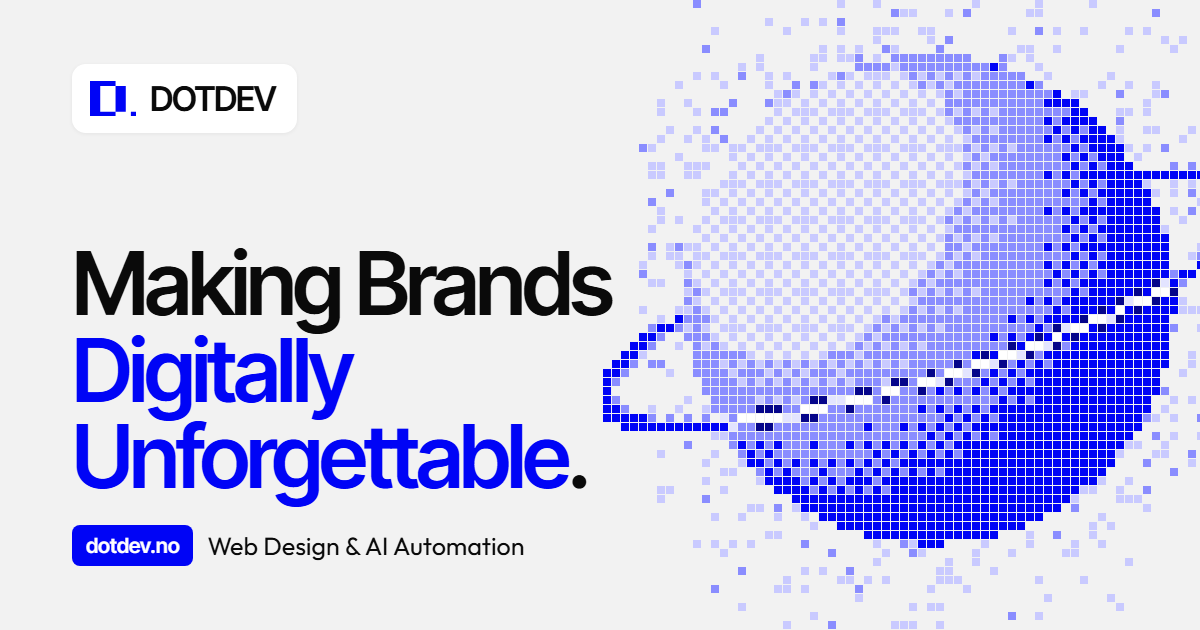
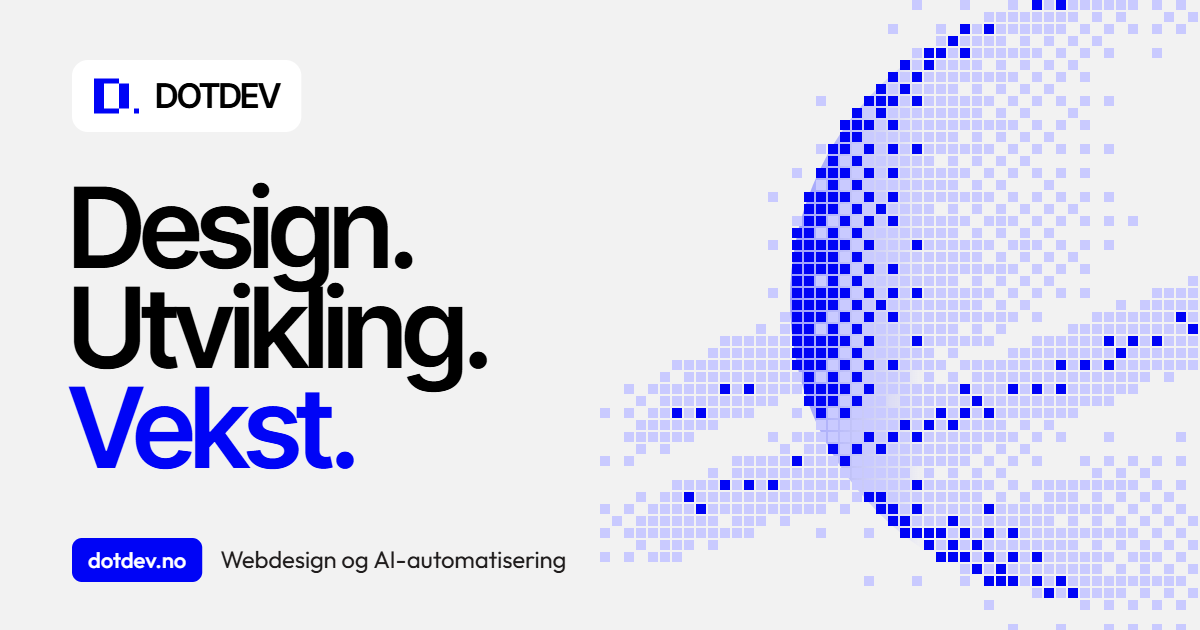
Nytt delingsbilde med «Design. Utvikling. Vekst.»
- delingsbilde.png: samme overskrift og undertittel som siden, pikselplaneten
  fra hero (samme tegnekode), fonter og farger. Erstatter det gamle engelske
  «Making Brands Digitally Unforgettable».
- og:image/twitter:image får ?v=2 så Messenger, LinkedIn o.l. henter det nye
  bildet i stedet for det de har mellomlagret. og:image:alt oppdatert.

diff --git a/index.html b/index.html
@@ -18,9 +18,9 @@
      • E-post .......... «kontakt@dotdev.no»  (mailto-lenker, tekst, JSON-LD
                          og BOOKING.email i skriptet)
      • Overskrift ...... «Design. Utvikling. Vekst.» står i <h1> i hero, og den
-                         engelske i I18N.en ('hero.title'). Det gamle slagordet
-                         «Making Brands Digitally Unforgettable» står fortsatt
-                         på delingsbilde.png.
+                         engelske i I18N.en ('hero.title'). Den og
+                         undertittelen står også på delingsbilde.png, så lag
+                         et nytt bilde hvis de endres.
      • Undertittel ..... «Webdesign og AI-automatisering» (<title> og
                          hero-merket); engelsk «Web Design &amp; AI Automation»
                          står i I18N.en ('meta.title' og 'hero.tag'). Ordet
@@ -249,14 +249,16 @@
     <link rel="canonical" href="https://dotdev.no/">
     <meta property="og:url" content="https://dotdev.no/">
     <!-- Delingsbilde (vises når lenken deles i Messenger, LinkedIn, Slack, SMS o.l.).
-         Må være full adresse. Bildet ligger i delingsbilde.png (1200 × 630 px). -->
-    <meta property="og:image" content="https://dotdev.no/delingsbilde.png">
+         Må være full adresse. Bildet ligger i delingsbilde.png (1200 × 630 px).
+         Bytter dere bildet, øk ?v=2 til ?v=3 osv. (også i personvern.html), ellers
+         viser Messenger, LinkedIn o.l. det gamle bildet de har lagret. -->
+    <meta property="og:image" content="https://dotdev.no/delingsbilde.png?v=2">
     <meta property="og:image:type" content="image/png">
     <meta property="og:image:width" content="1200">
     <meta property="og:image:height" content="630">
-    <meta property="og:image:alt" content="DOTDEV – Making Brands Digitally Unforgettable. Web Design og AI Automation.">
+    <meta property="og:image:alt" content="DOTDEV – Design. Utvikling. Vekst. Webdesign og AI-automatisering.">
     <meta name="twitter:card" content="summary_large_image">
-    <meta name="twitter:image" content="https://dotdev.no/delingsbilde.png">
+    <meta name="twitter:image" content="https://dotdev.no/delingsbilde.png?v=2">
     <!-- ✏ Aksentfarge i nettleserlinjen og favicon (kan ikke lese tokens: bytt #0004f6 / %230004f6 selv).
          Ikonfilene (favicon.ico, favicon-32.png, apple-touch-icon.png, icon-192/512.png) er bilder: lag nye hvis logo eller farge endres. -->
     <meta name="theme-color" content="#0004f6">

diff --git a/personvern.html b/personvern.html
@@ -49,7 +49,7 @@
     <meta property="og:title" content="Personvernerklæring · DOTDEV">
     <link rel="canonical" href="https://dotdev.no/personvern">
     <meta property="og:url" content="https://dotdev.no/personvern">
-    <meta property="og:image" content="https://dotdev.no/delingsbilde.png">
+    <meta property="og:image" content="https://dotdev.no/delingsbilde.png?v=2">
     <meta property="og:image:width" content="1200">
     <meta property="og:image:height" content="630">
     <meta name="twitter:card" content="summary_large_image">
